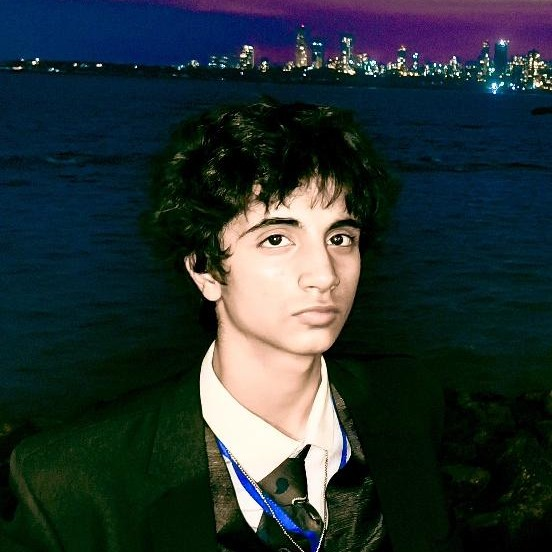
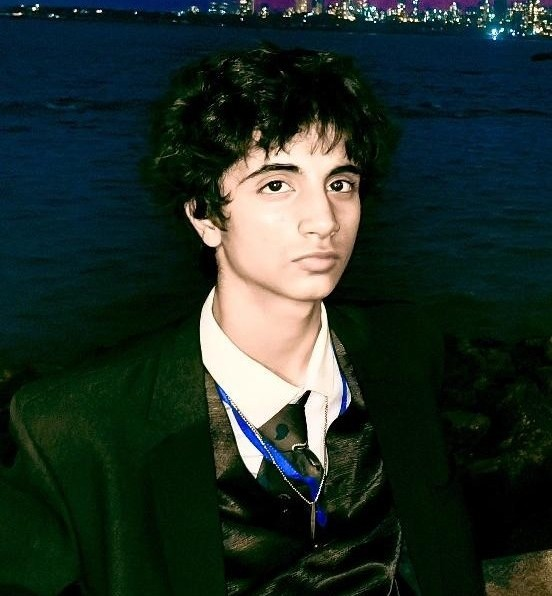
style: increase Organising Committee card and photo size by 10%

diff --git a/src/pages/OrganisingCommittee.tsx b/src/pages/OrganisingCommittee.tsx
@@ -123,11 +123,11 @@ const OrganisingCommitteePage = () => {
                 viewport={{ once: true }}
                 transition={{ duration: 0.6, delay: i * 0.08 }}
                 onClick={() => setSelectedMember(member)}
-                className="glass-panel p-6 sm:p-8 rounded-xl border border-white/5 bg-card/65 flex flex-col justify-between h-full hover:border-primary/40 transition-all duration-300 hover:scale-[1.02] cursor-pointer group relative"
+                className="glass-panel p-7 sm:p-9 rounded-xl border border-white/5 bg-card/65 flex flex-col justify-between h-full hover:border-primary/40 transition-all duration-300 hover:scale-[1.02] cursor-pointer group relative"
               >
                 <div>
                   {/* Fallback Visual Banner for card */}
-                  <div className="h-44 w-full overflow-hidden relative bg-black/30 rounded-lg flex-shrink-0 mb-6 flex items-center justify-center border border-white/5">
+                  <div className="h-48 w-full overflow-hidden relative bg-black/30 rounded-lg flex-shrink-0 mb-6 flex items-center justify-center border border-white/5">
                     {member.image ? (
                       <img
                         src={member.image}
